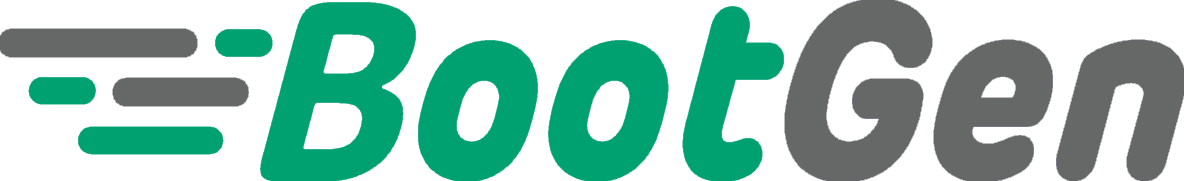
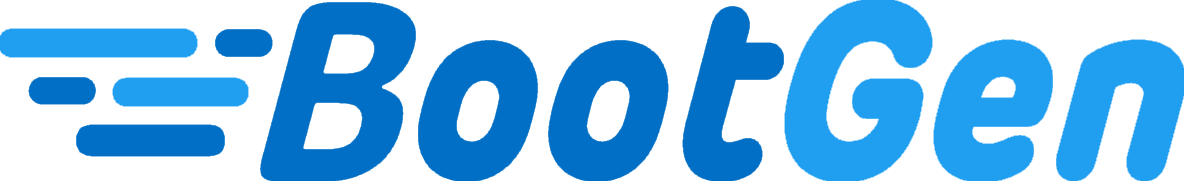
change primary and secondary color

diff --git a/ClientApp/src/views/NotFound.vue b/ClientApp/src/views/NotFound.vue
@@ -5,7 +5,7 @@
         <div class="d-flex flex-column text-center align-center">
           <div class="d-flex">
             <h1 class="errorCode">4</h1>
-            <v-icon color="#00A170" size="9rem">mdi-emoticon-dead-outline </v-icon>
+            <v-icon color="#006FC5" size="9rem">mdi-emoticon-dead-outline </v-icon>
             <h1 class="errorCode">4</h1>
           </div>
           <h2 class="response">Page not found</h2>
@@ -33,12 +33,12 @@ export default Vue.extend({
 <style scoped>
   h1.errorCode{
     font-size: 10rem;
-    color: #00A170;
+    color: #006FC5;
     line-height: 1;
-    text-shadow: 3px 3px 0px #eee, 6px 6px 0px #656867;
+    text-shadow: 3px 3px 0px #eee, 6px 6px 0px #209EF0;
   }
   .response{
     font-size: 3.75rem;
-    color: #656867;
+    color: #209EF0;
   }
 </style>

diff --git a/maintenance.html b/maintenance.html
@@ -5,10 +5,10 @@
     <meta name="viewport" content="width=device-width, initial-scale=1" />
     <title>Site Maintenance</title>
     <style>
-      body { text-align: center; padding: 150px; font-family: "Roboto", sans-serif; color: #656867; font-size: large; }
+      body { text-align: center; padding: 150px; font-family: "Roboto", sans-serif; color: #209EF0; font-size: large; }
       main { display: block; text-align: left; width: 600px; margin: 0 auto; }
       h1 { font-size: 3.75rem; text-align: center; }
-      a { color: #00A170; text-decoration: none; font-weight: bold; }
+      a { color: #006FC5; text-decoration: none; font-weight: bold; }
       p { color: #333 }
     </style>
   </head>

diff --git a/ClientApp/src/App.vue b/ClientApp/src/App.vue
@@ -84,7 +84,7 @@ export default {
     snackbar: {
       dismissible: false,
       visible: true,
-      type: 'third',
+      type: 'primary',
       icon: 'mdi-cookie-alert',
       text: 'We use cookies to improve your experience on our website.',
       timeout: -1,
@@ -194,11 +194,11 @@ export default {
     color: #eee;
   }
   a.repositoryLink{
-    color: #00A170!important;
+    color: #006FC5!important;
     text-decoration: none;
   }
   a.repositoryLink:hover{
-    color: #656867 !important;
+    color: #209EF0 !important;
   }
   footer {
     text-align: center;

diff --git a/ClientApp/src/plugins/vuetify.ts b/ClientApp/src/plugins/vuetify.ts
@@ -5,20 +5,18 @@ import '@/sass/overrides.sass'
 Vue.use(Vuetify)
 
 const lightTheme = {
-  primary: '#00A170',
-  secondary: '#656867',
-  third: '#00A170',
-  accent: '#656867',
+  primary: '#006FC5',
+  secondary: '#209EF0',
+  accent: '#209EF0',
   info: '#00CAE3',
   textOrange: '#fc825d',
   textGreen: '#29af56',
 }
 
 const darkTheme = {
-  primary: '#00A170',
-  secondary: '#656867',
-  third: '#00A170',
-  accent: '#656867',
+  primary: '#006FC5',
+  secondary: '#209EF0',
+  accent: '#209EF0',
   info: '#00CAE3',
   white: '#eee',
   textOrange: '#F78C6C',

diff --git a/ClientApp/src/components/CodeMirror.vue b/ClientApp/src/components/CodeMirror.vue
@@ -171,7 +171,7 @@ export default Vue.extend({
     color: #3C4C72;
   }
   .cm-s-material .CodeMirror-cursor {
-    border-left: 1px solid #656867;
+    border-left: 1px solid #209EF0;
   }
   .cm-s-material .cm-keyword {
     color: #904bbb;
